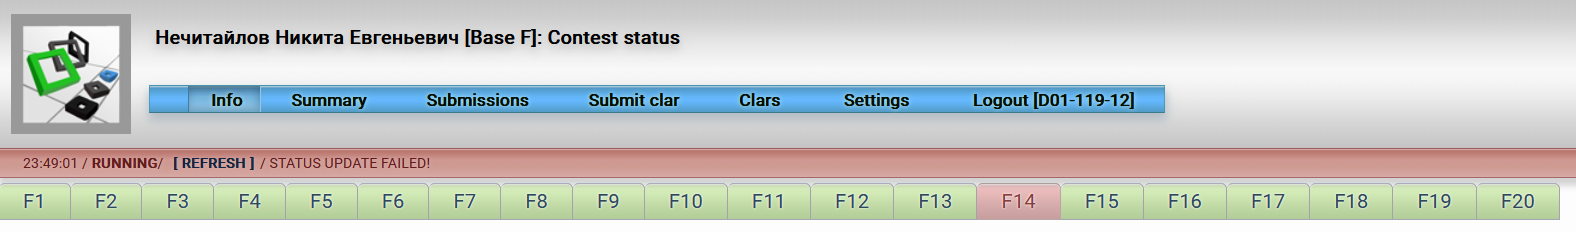
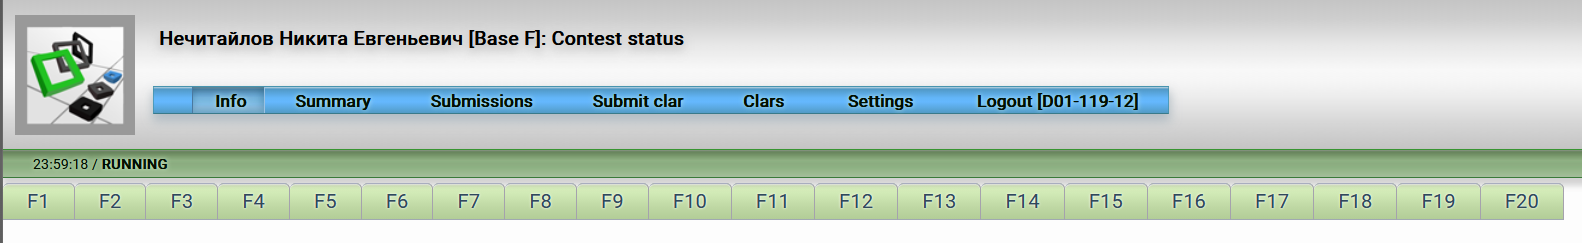
correcting F14

diff --git a/HW9/F14.c b/HW9/F14.c
@@ -1,9 +1,19 @@
 #include <stdio.h> 
 
+void swap (int *a, int *b)
+{
+    int temp = *a;
+    *a = *b;
+    *b = temp;
+}
+
  int sum_between_ab(int from, int to, int size, int a[])
  {
     int sum = 0;
     
+    if (from > to)
+        swap(&from, &to);
+
     for (int i = 0; i < size; i++)
     {
         if (a[i] >= from && a[i]<=to)
